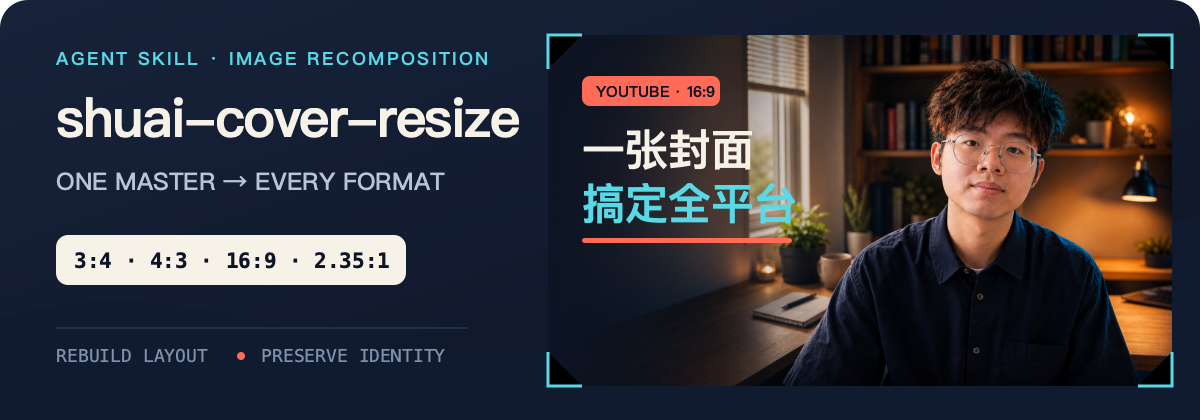
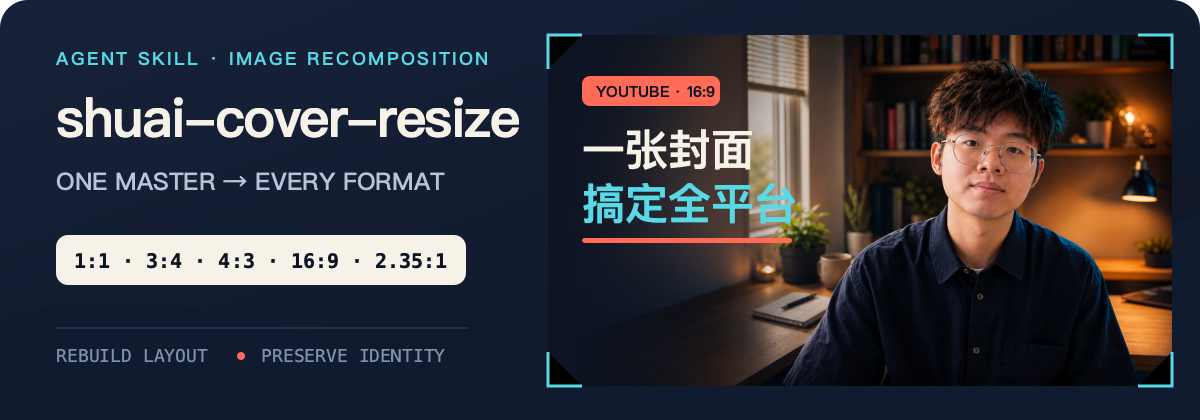
Add square cover support and Bilibili demo

Changed region(s): [[0.1233, 0.5571, 0.4008, 0.681], [0.0617, 0.5881, 0.0925, 0.65]]

diff --git a/scripts/detect_ratio.py b/scripts/detect_ratio.py
@@ -4,7 +4,7 @@
 Usage:
     python3 detect_ratio.py <image> [ratios...]
 
-    ratios: target ratios like 4:3 3:4 16:9 2.35:1 (default: 4:3 3:4 16:9)
+    ratios: target ratios like 1:1 4:3 3:4 16:9 2.35:1 (default: 4:3 3:4 16:9)
 
 Output: one line per target ratio — GENERATE or SKIP — plus the source dimensions.
 Supports PNG / JPEG / GIF with stdlib only. For other formats, fall back to:

diff --git a/README.en.md b/README.en.md
@@ -54,13 +54,14 @@ The hard part of publishing one cover across platforms is not the pixel dimensio
 
 | Ratio | Platform | Composition priority | Minimum resolution |
 | --- | --- | --- | ---: |
+| `1:1` | WeChat article | Square sharing image with a centered subject and readable message-list preview | 1080×1080 |
 | `3:4` | Xiaohongshu | Dense portrait layout with mobile-readable subject and title | 1080×1440 |
 | `4:3` | Bilibili | Balanced landscape hierarchy between subject and title | 1200×900 |
 | `3:4` / `4:3` | WeChat Channels | Portrait and landscape formats with a clear subject and title in feed previews | 1080×1440 / 1200×900 |
 | `16:9` | YouTube | Strong landscape focus with subject and title separated | 1280×720 |
 | `2.35:1` | WeChat article | Editorial ultra-wide layout with more negative space | 900×383 |
 
-When no ratio is specified, the skill defaults to `4:3`, `3:4`, and `16:9`; both `4:3` and `3:4` work for WeChat Channels. The `2.35:1` version is added only when a WeChat article or ultra-wide cover is explicitly requested.
+When no ratio is specified, the skill defaults to `4:3`, `3:4`, and `16:9`; both `4:3` and `3:4` work for WeChat Channels. A WeChat article request adds both the `1:1` sharing image and `2.35:1` header; when only one ratio is specified, only that version is generated.
 
 ## Recommended: ChatGPT with ImageGen
 
@@ -103,6 +104,7 @@ Generated files are placed beside the source image:
 <source-name>__3x4
 <source-name>__4x3
 <source-name>__16x9
+<source-name>__1x1
 <source-name>__235x100
 ```
 

diff --git a/README.md b/README.md
@@ -54,13 +54,14 @@ npx skills update shuai-cover-resize
 
 | 比例 | 平台 | 构图重点 | 最低分辨率 |
 | --- | --- | --- | ---: |
+| `1:1` | 公众号 | 方形分享图，主体居中，保证消息列表与分享卡片中的可读性 | 1080×1080 |
 | `3:4` | 小红书 | 竖版高密度，优先保证人物和标题的手机可读性 | 1080×1440 |
 | `4:3` | B站 | 均衡横版，人物与标题形成清楚层级 | 1200×900 |
 | `3:4` / `4:3` | 视频号 | 同时支持竖版与横版，保证信息流预览中的主体和标题清晰 | 1080×1440 / 1200×900 |
 | `16:9` | YouTube | 强焦点横版，人物与标题尽量左右分区 | 1280×720 |
 | `2.35:1` | 公众号 | 超宽编辑感，增加留白，默认弱化或移除人物 | 900×383 |
 
-未指定比例时默认生成 `4:3`、`3:4` 和 `16:9`，其中 `4:3` 与 `3:4` 均可用于视频号。只有明确要求公众号版或 `2.35:1` 时才会增加超宽版本。
+未指定比例时默认生成 `4:3`、`3:4` 和 `16:9`，其中 `4:3` 与 `3:4` 均可用于视频号。明确要求公众号版时增加 `1:1` 方图与 `2.35:1` 头图；只指定其中一个比例时，仅生成指定版本。
 
 ## 推荐：在 ChatGPT 中使用 ImageGen
 
@@ -103,6 +104,7 @@ python3 scripts/detect_ratio.py cover.png 4:3 3:4 16:9
 <原文件名>__3x4
 <原文件名>__4x3
 <原文件名>__16x9
+<原文件名>__1x1
 <原文件名>__235x100
 ```
 
